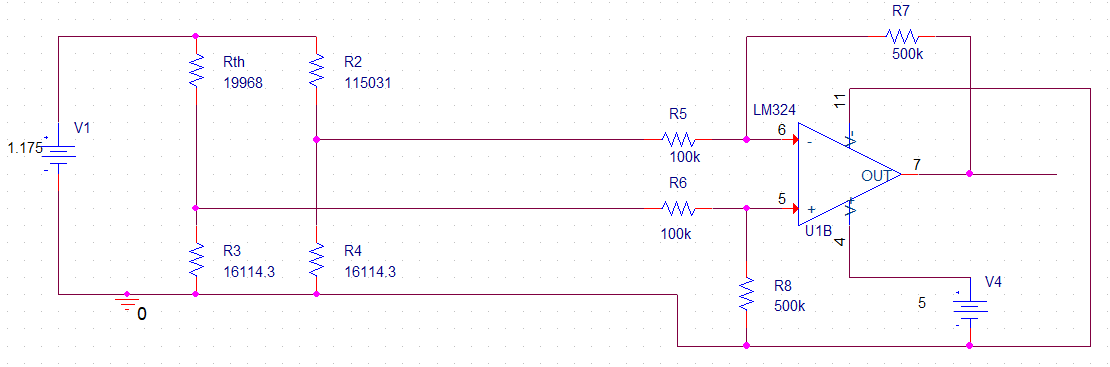
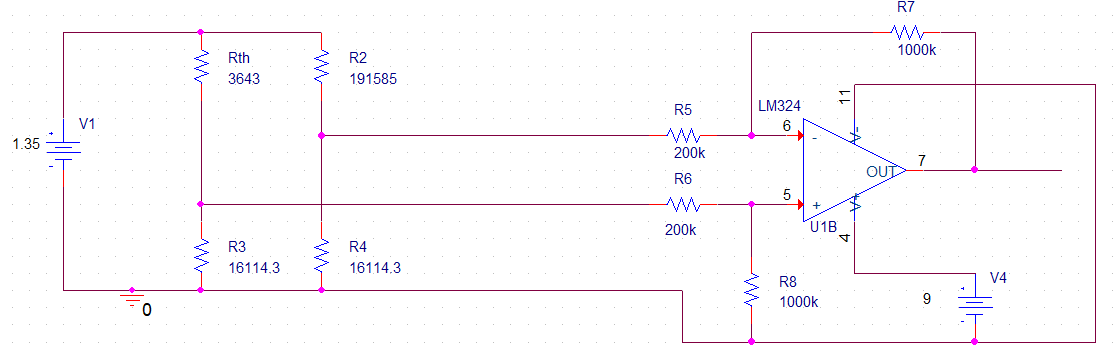
Update Thermistor page

diff --git a/thermistor.md b/thermistor.md
@@ -1,3 +1,5 @@
+# Thermistor [<img src="https://external-content.duckduckgo.com/iu/?u=https%3A%2F%2Fimage.flaticon.com%2Ficons%2Fpng%2F512%2F15%2F15766.png&f=1&nofb=1" width="20px">](./index.md)
+
 # Table of contents
 1. [Introduction](#Thermistor)
     1. [Reasons to use Thermistor](#reasons-to-use-thermistor)
@@ -22,12 +24,12 @@ The type of the thermistor that we are going to be using the NTC thermistor USP1
 
 ## Block Diagram
 <p align="center">
-    <img src="images/block.PNG" width="50%">
+    <img src="images/block.PNG" width="80%">
 </p>
 
 ## Schematic of Thermistor
 <p align="center">
-    <img src="images/schem.PNG" width="50%">
+    <img src="images/schem.PNG" width="80%">
 </p>
 ## Configurations for Excel
 Different Properties that was used in excel will be shown here. The excel sheet will also be available to download just click here.
@@ -50,17 +52,21 @@ To get these properties simultaneous equations is needed. To make it easier, we 
 | :-----: | :-------: | :-----: | :-----: |
 | 1.35496 | 115031.12 | 16114.3 | 16114.3 |
 
-** Steps to get the 3 equations for simultaneous equations **
+**Steps to get the 3 equations for simultaneous equations**
 1. Get the temperature range required, and calculate the Rth of these temperature Range. In this example the temperature range is -30 to 50
 2. Note the Rth of the minimum, middle and maximum degrees. For example, refering to the excel sheet below -30 degC(min) is 191585ohms, 10 degC(middle) is 19968ohms and 50 degC (max) is 3643ohms. 
 3. Substitute this value in the equations below:
 <p align="center">
-    <img src="images/equation.PNG" width="50%">
+    <img src="images/equation.PNG" width="30%">
 </p>
 4. Use wolframalpha website here and put in the 3 equations. It will then give you x,y,z values where x is Vs, y is R3 and z is R2/R4.
 5. Note that R4=R3 so to calculate R2 on its own multiply z value by R4.
 6. These will then give you all the resistor values for the wheatstone bridge.
 
+The diagram below will help visualise the location of the resistors in the circuit and briefly explain where each of the values were taken.
+<p align="center">
+    <img src="images/thermistorwheat.PNG" width="50%">
+</p>
 
 ## Final Excel Sheet 
 | T (°C) | T (K)  | Rth (Ω) | Vout (V) | A/D (DU) | Rescaled  |
@@ -79,9 +85,14 @@ To get these properties simultaneous equations is needed. To make it easier, we 
 | 50.00  | 323.15 | 3643    |   0.94   |  192.05  |  14198.94 |
 
 ### Calculating the gain
-Gain required of 5 is need so:
-input resistance  = 100k ohms
-Feedback resistance is 500k ohms
+Gain of 5 is needed so:
+input resistance (values for R5 and R6)  = 200k ohms
+Feedback (values for R7 and R8) = 1000k ohms
+
+The diagram below is showing the location of the input resistance and the feedback. The 9V is the circuit is the battery that we used when we built the circuit on the breadboard. This can be seen on the diagram encircled in red. The 200k input resistance and the 1000k feedback would give us the 5 gain that we needed. 
+<p align="center">
+    <img src="images/thermampi.PNG" width="50%">
+</p>
 
 ## Equipments required
 - Thermistor
